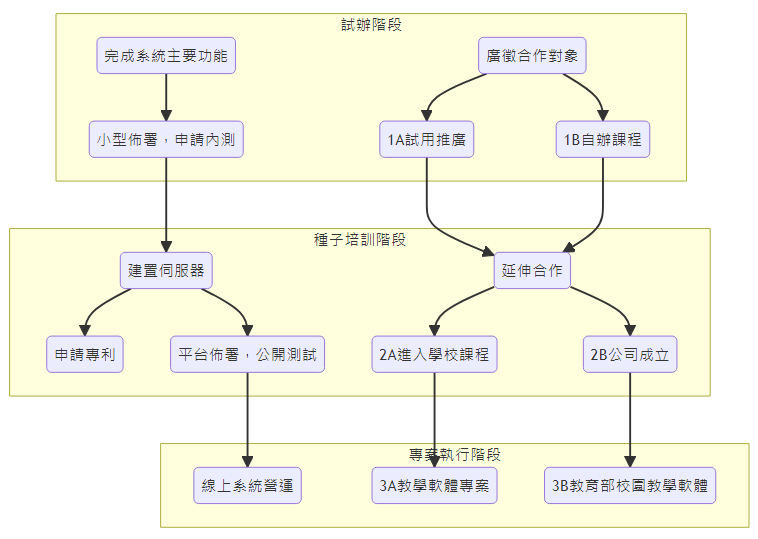
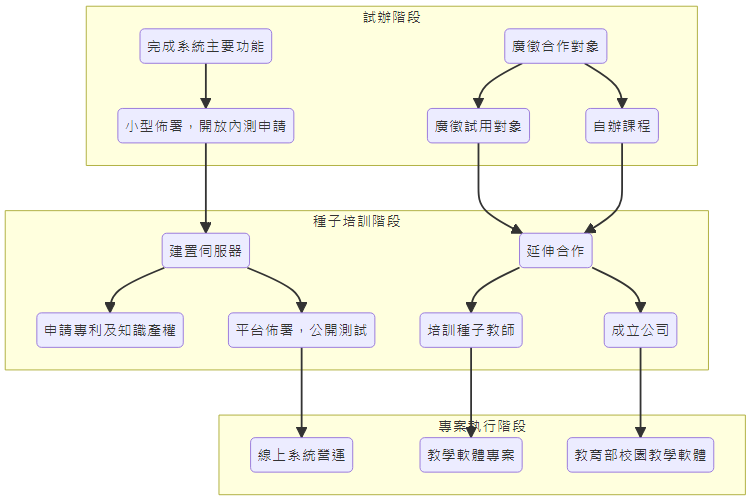
Complete the content and adjust the layout.

Changed region(s): [[0.0, 0.0, 1.0, 1.0], [0.5834, 0.15, 0.6142, 0.18], [0.3378, 0.54, 0.3685, 0.57]]

diff --git a/2024-ntue/Appendix/appendix.tex b/2024-ntue/Appendix/appendix.tex
@@ -1,82 +1,43 @@
 \section{\centering 附件}
 
-\subsection{過去的募資經驗}
-\label{fig:Appendix-fundraising}
+\subsection{產品功能展示}
+\label{fig:Appendix-Product}
 \begin{figure}[H]
-	\centering
-	\includegraphics[width=0.8\textwidth]{images/flyingv-19600.png}
-	\caption{flyingV群眾募資 - 成果}
-	\label{fig:flyingv}
-\end{figure}
-
-\subsection{過去的行銷成果}
-\label{fig:Appendix-Marketing}
-\begin{figure}[H]
-	\centering
-	\begin{subfigure}{0.32\linewidth}
-		\centering
-		\includegraphics[width=1\textwidth]{images/FB.png}
-		\caption{Facebook}
-		\label{fig:FB}
+	\begin{subfigure}{0.5\linewidth}
+	  \centering
+	  %   \href{https://raw.githubusercontent.com/programingtw/proglearn-plan/main/img/list.png}{ 
+	  \includegraphics[width=0.75\textwidth]{images/chapter.png}
+	  %   }
+	  \caption{課程章節}
 	\end{subfigure}
-	\begin{subfigure}{0.32\linewidth}
-		\centering
-		\includegraphics[width=0.6\textwidth]{images/IG.jpg}
-		\caption{Instagram}
-		\label{fig:IG}
+	\begin{subfigure}{0.5\linewidth}
+	  \centering
+	  %   \href{https://raw.githubusercontent.com/programingtw/proglearn-plan/main/img/course.png}{ 
+	  \includegraphics[width=0.75\textwidth]{images/course.png}
+	  %   }
+	  \caption{課程清單}
 	\end{subfigure}
-	\begin{subfigure}{0.32\linewidth}
-		\centering
-		\includegraphics[width=1\textwidth]{images/website.png}
-		\caption{普羅官網}
-		\label{fig:website}
+	\caption{課程相關頁面}
+	\label{fig:course}
+  \end{figure}
+  
+  \begin{figure}[H]
+	\begin{subfigure}{0.5\linewidth}
+	  \centering
+	  %   \href{https://raw.githubusercontent.com/programingtw/proglearn-plan/main/img/list.png}{ 
+	  \includegraphics[width=0.75\textwidth]{images/homework.png}
+	  %   }
+	  \caption{作業作答}
 	\end{subfigure}
-	\caption[社群平台]{社群平台\\（資料來源：於2024年1月15日，截取自普羅Facebook、Instagram及官網）}
-	\label{fig:platform}
-\end{figure}
-
-\subsection{過去的創業研習經驗}
-\label{fig:Appendix-Training}
-\begin{figure}[H]
-  \centering
-  \begin{subfigure}{0.32\linewidth}
-    \centering
-    \includegraphics[width=0.8\textwidth]{images/training-1.png}
-    \caption{112 學年第一學期學生創業戰鬥營 - 林一}
-    \label{fig:Training-1}
-  \end{subfigure}
-  \begin{subfigure}{0.32\linewidth}
-    \centering
-    \includegraphics[width=0.8\textwidth]{images/training-2.png}
-    \caption{112 學年第一學期學生創業新手村 - 簡蔚驊}
-    \label{fig:Training-2}
-  \end{subfigure}
-  \begin{subfigure}{0.32\linewidth}
-    \centering
-    \includegraphics[width=0.8\textwidth]{images/training-3.png}
-    \caption{112 學年第一學期學生創業戰鬥 - 王裕傑}
-    \label{fig:Training-3}
-  \end{subfigure}
-  \caption{過去的創業研習經驗}
-\end{figure}
-
-\subsection{過去的創業競賽經驗}
-\label{fig:Appendix-Competition}
-\begin{figure}[H]
-	\centering
-	\begin{subfigure}{0.45\linewidth}
-		\centering
-		\includegraphics[width=0.6\textwidth]{images/competition-1.jpeg}
-		\caption{2021武漢金銀湖盃第七屆海峽兩岸青年創新創業大賽入選台灣賽區菁英賽決賽}
-		\label{fig:Competition-1}
+	\begin{subfigure}{0.5\linewidth}
+	  \centering
+	  %   \href{https://raw.githubusercontent.com/programingtw/proglearn-plan/main/img/course.png}{ 
+	  \includegraphics[width=0.75\textwidth]{images/feedback.png}
+	  %   }
+	  \caption{作業反饋}
 	\end{subfigure}
-	\begin{subfigure}{0.45\linewidth}
-		\centering
-		\includegraphics[width=0.6\textwidth]{images/competition-2.jpeg}
-		\caption{2021師大Startup競技場決賽}
-		\label{fig:Competition-2}
-	\end{subfigure}
-	\caption{過去的創業競賽經驗}
+	\caption{作業相關頁面}
+	\label{fig:homework}
 \end{figure}
 
 \subsection{各平台教師數量}
@@ -123,6 +84,91 @@
 		\label{fig:HiSKIO}
 	\end{subfigure}
 	\caption[線上教學平台分潤比例]{線上教學平台分潤比例\\（資料來源：於2024年2月22日，截取自Hahow好學校及HiSKIO 專業線上教學平台）}
+\end{figure}
+
+\subsection{過去的行銷成果}
+\label{fig:Appendix-Marketing}
+\begin{figure}[H]
+	\centering
+	\begin{subfigure}{0.32\linewidth}
+		\centering
+		\includegraphics[width=1\textwidth]{images/FB.png}
+		\caption{Facebook}
+		\label{fig:FB}
+	\end{subfigure}
+	\begin{subfigure}{0.32\linewidth}
+		\centering
+		\includegraphics[width=0.6\textwidth]{images/IG.jpg}
+		\caption{Instagram}
+		\label{fig:IG}
+	\end{subfigure}
+	\begin{subfigure}{0.32\linewidth}
+		\centering
+		\includegraphics[width=1\textwidth]{images/website.png}
+		\caption{普羅官網}
+		\label{fig:website}
+	\end{subfigure}
+	\caption[社群平台]{社群平台\\（資料來源：於2024年1月15日，截取自普羅Facebook、Instagram及官網）}
+	\label{fig:platform}
+\end{figure}
+
+\begin{enumerate}
+	\item Facebook：https://www.facebook.com/programing.edu.tw
+	\item Instagram：https://www.instagram.com/programing.tw/
+	\item 普羅官網：https://www.programing.tw/
+\end{enumerate}
+
+\subsection{過去的募資經驗}
+\label{fig:Appendix-fundraising}
+\begin{figure}[H]
+	\centering
+	\includegraphics[width=0.8\textwidth]{images/flyingv-19600.png}
+	\caption{flyingV群眾募資 - 成果}
+	\label{fig:flyingv}
+\end{figure}
+
+\subsection{過去的創業研習經驗}
+\label{fig:Appendix-Training}
+\begin{figure}[H]
+  \centering
+  \begin{subfigure}{0.32\linewidth}
+    \centering
+    \includegraphics[width=0.8\textwidth]{images/training-1.png}
+    \caption{112 學年第一學期學生創業戰鬥營 - 林一}
+    \label{fig:Training-1}
+  \end{subfigure}
+  \begin{subfigure}{0.32\linewidth}
+    \centering
+    \includegraphics[width=0.8\textwidth]{images/training-2.png}
+    \caption{112 學年第一學期學生創業新手村 - 簡蔚驊}
+    \label{fig:Training-2}
+  \end{subfigure}
+  \begin{subfigure}{0.32\linewidth}
+    \centering
+    \includegraphics[width=0.8\textwidth]{images/training-3.png}
+    \caption{112 學年第一學期學生創業戰鬥 - 王裕傑}
+    \label{fig:Training-3}
+  \end{subfigure}
+  \caption{過去的創業研習經驗}
+\end{figure}
+
+\subsection{過去的創業競賽經驗}
+\label{fig:Appendix-Competition}
+\begin{figure}[H]
+	\centering
+	\begin{subfigure}{0.45\linewidth}
+		\centering
+		\includegraphics[width=0.6\textwidth]{images/competition-1.jpeg}
+		\caption{2021武漢金銀湖盃第七屆海峽兩岸青年創新創業大賽入選台灣賽區菁英賽決賽}
+		\label{fig:Competition-1}
+	\end{subfigure}
+	\begin{subfigure}{0.45\linewidth}
+		\centering
+		\includegraphics[width=0.6\textwidth]{images/competition-2.jpeg}
+		\caption{2021師大Startup競技場決賽}
+		\label{fig:Competition-2}
+	\end{subfigure}
+	\caption{過去的創業競賽經驗}
 \end{figure}
 
 % \newpage

diff --git a/2024-ntue/Plan/plan.tex b/2024-ntue/Plan/plan.tex
@@ -60,3 +60,23 @@
   \end{subfigure}
   \caption{團隊榮譽}
 \end{figure}
+
+\subsection{創業進度規劃}
+\label{sec:plan}
+
+本計畫將分為試辦、種子培訓、專案執行三個階段進行：
+
+\begin{enumerate}
+  \setlength{\parindent}{2em}
+  \item 試辦階段（2024Q2 - 2024Q4）
+  \par 在試辦階段，我們正面臨著起步階段的挑戰，其中包括尚未建立起與學校之間的信任與合作關係，以及我們的系統缺乏實際的使用案例。為了應對這些挑戰，我們計劃廣徵系統的試用對象與自辦課程，舉辦各種活動以接觸基層的國高中教師與學生，例如小型營隊、課程、研討會或線上課程等。
+  \par 活動將由開發人員進行教學，這樣我們便能夠即時修正系統問題，並且得到第一線教學的反饋。實施的具體方式是由學校提供場地和學生，而我們則提供課程內容、教師和教材，以建立與學校的初步合作關係。
+  \par 這種方式對學校的成本較低，且風險相對較小，因此非常適合作為推廣的初期階段。透過這樣的合作模式，我們有望減少與學校合作過程中可能出現的摩擦，同時為我們的系統提供實際的應用場景，進一步提升市場接受度和使用者體驗。
+  \item 種子培訓階段（2025Q1 - 2025Q3）
+  \par 在當前階段，我們已經與少數學校建立了合作關係。接下來的重點是培育和輔導那些有意願參與的國高中教師，讓他們成為我們合作的種子教師。我們的具體做法是讓這些種子教師將我們的系統融入到他們日常的教學實踐中。
+  \par 透過這種方式，我們可以收集學生和教師的實際反饋，並進行使用案例和教學成效的數據分析與評估。這一階段的主要目標是建立更多的使用案例，同時不斷對系統進行優化和改進。我們期望能夠提供潛在投資人可靠的參考依據，並使我們的系統更加完善。
+  \item 專案執行階段（2025Q4 - 2026Q3）
+  \par 在專案執行階段，我們在已建立合作關係的學校與教師基礎上進行了進一步的洽談。這些種子教師已經具有我們系統的使用經驗，並且發現在教學中難以或無法脫離我們系統的輔助。在這個階段，我們透過這些教師與學校進行合作協商，希望以軟體專案或校園採購案的形式，在校內架設起學校專屬的程式教學系統，並與學校建立起B2B的商業關係。
+  \par 同時，我們也將走訪其他學校和資訊補習班，向他們展示我們在先前階段建立的使用案例，探索與他們建立合作關係的可能性。透過這種方式擴大我們的合作規模，尋找新的潛在投資人和合作夥伴。
+  \par 這一階段的目的，在於鞏固我們與學校和教師之間的合作關係，並擴大我們的市場範圍和影響力。通過與更多的教育機構建立合作夥伴關係，我們將更有效地推廣我們的產品。未來，我們的目標是參與教育部校園數位內容與教學軟體的公開徵求活動。
+\end{enumerate}

diff --git a/2024-ntue/Idea/idea.tex b/2024-ntue/Idea/idea.tex
@@ -12,6 +12,28 @@
 
 普羅程式作為教學用軟體的服務供應商，將致力於協助教師開發程式教學工具，以解決教育者在數位化學習的潮流下所遇到的問題。
 除了為教師與學校提供專案設計的服務外，我們將提供整合性的proglearn程式教學系統作為我們的主要產品，可適用於多種場景，如線上與線下課程、非同步與同步課程中。
+\\ \par \noindent
+% 畫圖
+% 普羅程式---軟體服務--->教學單位---解決--->數位化學習/教學障礙等問題
+\begin{figure}[H]
+    \centering
+    \begin{tikzpicture}[node distance=2cm,>=latex]
+
+        % Nodes
+        \node[startstop, align=center] (pro) {普羅程式};
+        \node[process, right of=pro, node distance=5cm, align=center] (service) {軟體服務};
+        \node[process, right of=service, node distance=5cm, align=center] (unit) {教學單位};
+        \node[process, right of=unit, node distance=5cm, align=center] (issue) {數位化學習、\\教學障礙等問題};
+        
+        % Arrows
+        \draw[->] (pro) -- node[above] {提供} (service);
+        \draw[->] (service) -- node[above] {幫助} (unit);
+        \draw[->] (unit) -- node[above] {解決} (issue);
+        
+    \end{tikzpicture}
+    \caption{普羅程式的服務模式}
+    \label{fig:service}
+\end{figure}
 
 % \subsection{實施方式、時程規劃及預期成效}
 % \label{sec:plan}

diff --git a/2024-ntue/Strategies/strategies.tex b/2024-ntue/Strategies/strategies.tex
@@ -63,9 +63,9 @@
 \begin{enumerate}[label=(\arabic*)]
   \setlength{\parindent}{2em}
   \item 過去的行銷成果
-    \par 截至2024年1月15日，普羅程式已於Instagram\footnote{Instagram：https://www.instagram.com/programing.tw/}
-    、Facebook\footnote{Facebook：https://www.facebook.com/programing.edu.tw}
-    、普羅官網\footnote{普羅官網：https://www.programing.tw/}
+    \par 截至2024年1月15日，普羅程式已於Instagram
+    、Facebook
+    、普羅官網
     三個社群平台上共有六百多名追蹤者（附件\ref{fig:Appendix-Marketing}）。我們於平台上推廣科普文章、普羅課程資訊及資訊時事供社群大眾閱讀，過去更在單月內創造5811名貼文觸及人數（圖\ref{fig:article}），並在高中開辦暑期短期課程（圖\ref{fig:course-summer}），增加品牌信心與知名度。
     
     % \begin{figure}[H]

diff --git a/2024-ntue/2024-ntue.tex b/2024-ntue/2024-ntue.tex
@@ -69,6 +69,7 @@
 % \usepackage[fleqn]{amsmath} % 數學排版, fleqn 選項讓數學式靠左對齊
 \usepackage{tikz} % 繪圖
 \usepackage{pgfplots} % 圖表
+\usetikzlibrary{arrows} % 箭頭
 \usepgfplotslibrary{groupplots} % Group 圖表
 % \usepackage{subfig} % 圖表子圖
 

diff --git a/2024-ntue/Market/market.tex b/2024-ntue/Market/market.tex
@@ -1,4 +1,4 @@
-\section{商業發展可行性}
+\section{市場與競爭分析}
 
 \subsection{市場特性與規模}
 
